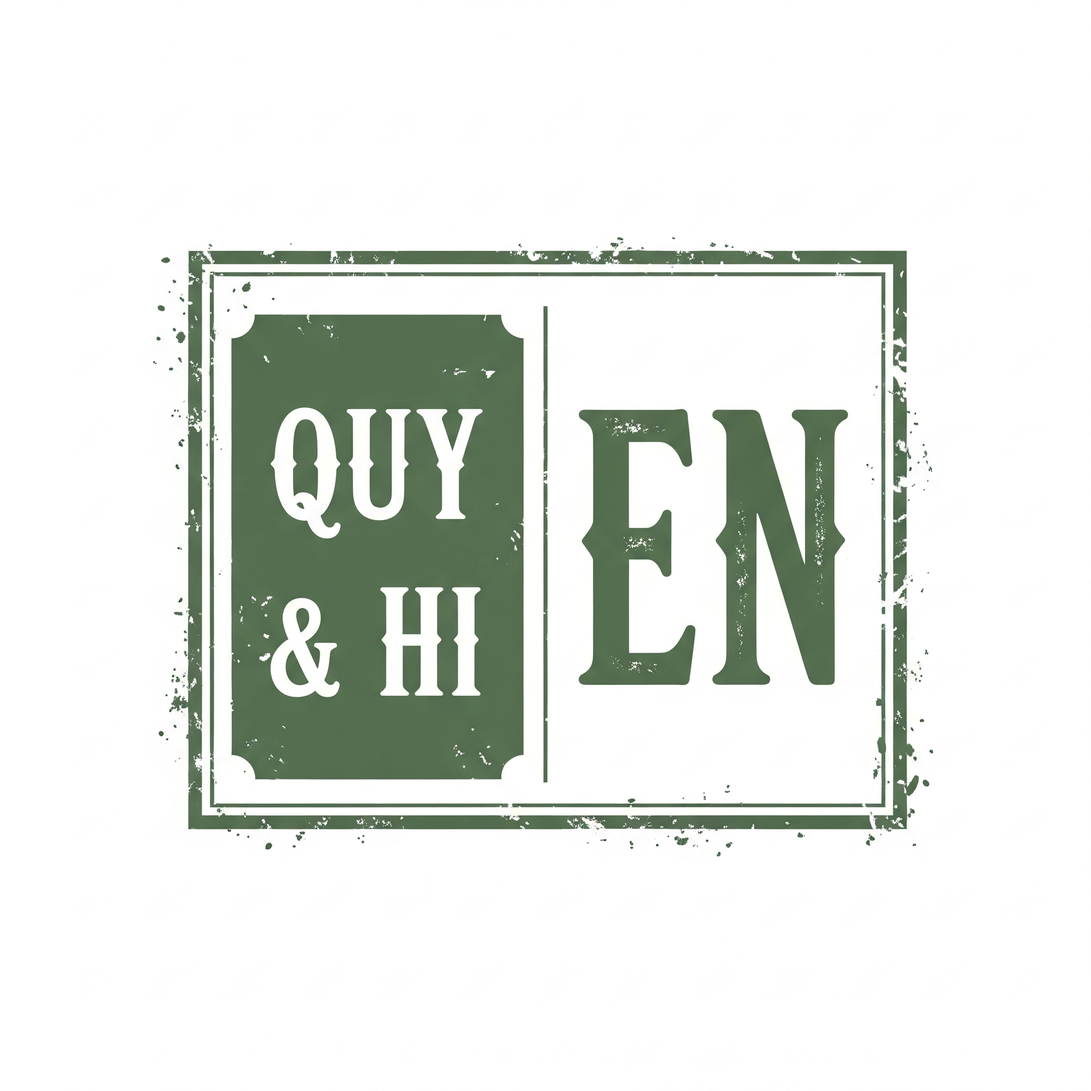
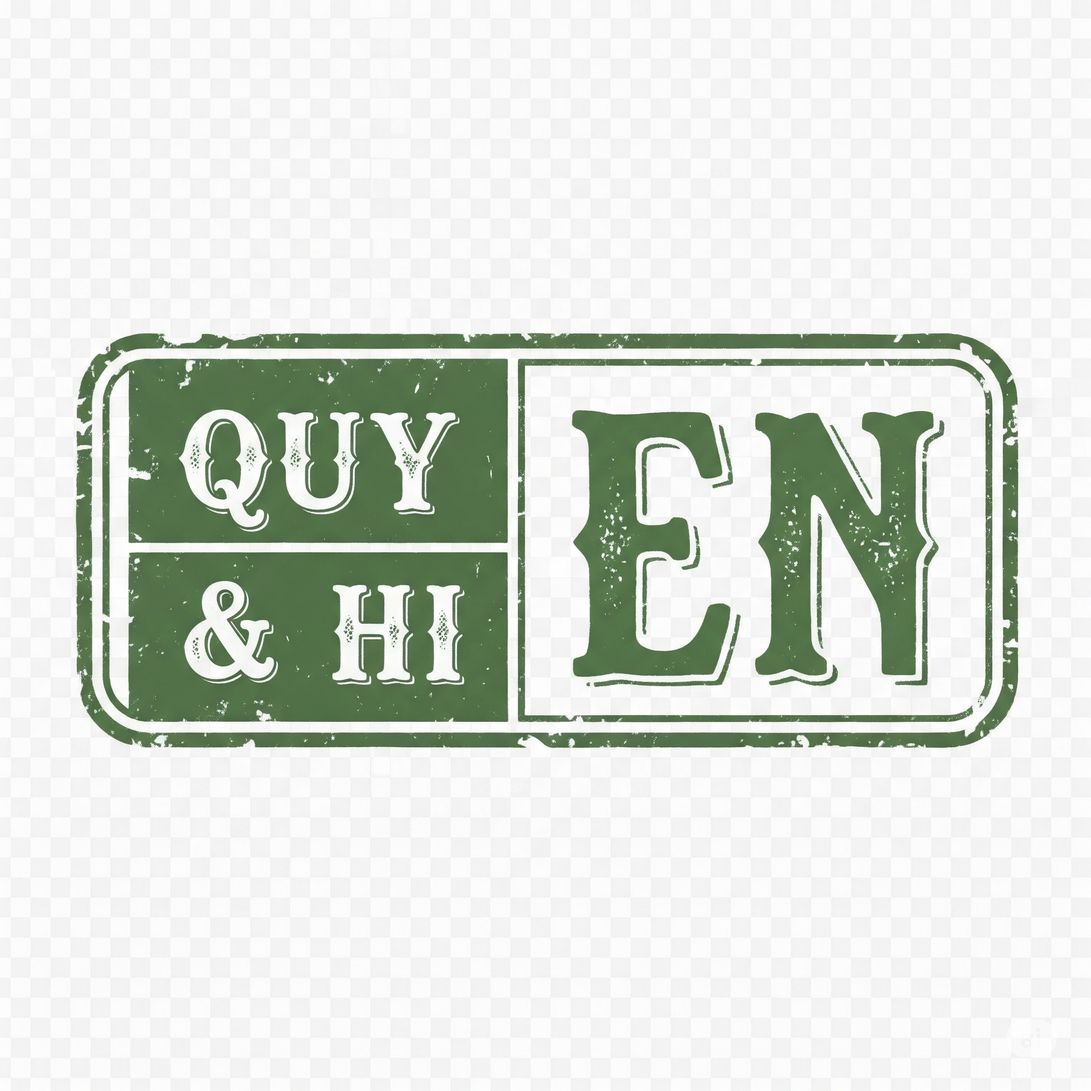
Update schedule section design and assets
Refactored the Wedding Day Schedule section layout and styles for a modernized look. Replaced the stamp logo in the schedule section with a new asset and added several new stamp images. Updated CSS to simplify the schedule layout, improve responsiveness, and enhance visual appearance.

Changed region(s): [[0.0625, 0.2188, 0.9375, 0.7812]]

diff --git a/src/css/sections.css b/src/css/sections.css
@@ -663,79 +663,61 @@
 
 /* --- NEW: Wedding Day Schedule Section --- */
 .schedule-section {
-    background: var(--color-secondary-cream);
+    background: var(--color-background);
     padding: 4rem 2rem;
+    position: relative;
+}
+
+.schedule-section .section-stamp-logo {
+    transform: rotate(0deg);
+    margin-bottom: 1rem;
+    opacity: 0.7;
 }
 
 .schedule-container {
-    position: relative;
-    max-width: 700px;
-    margin: 2rem auto;
-    padding: 2rem 0;
-}
-
-.schedule-container::after {
-    content: '';
-    position: absolute;
-    width: 3px;
-    background-color: var(--color-primary-matcha);
-    top: 0;
-    bottom: 0;
-    left: 50%;
-    margin-left: -1.5px;
-    z-index: 1;
+    max-width: 800px;
+    margin: 2rem auto 0;
+    display: flex;
+    flex-direction: column;
+    gap: 1.5rem;
 }
 
 .schedule-item {
-    padding: 1rem 3rem;
-    position: relative;
-    background-color: inherit;
-    width: 50%;
+    display: flex;
+    align-items: center;
+    gap: 1.5rem;
+    background-color: white;
+    padding: 1.5rem;
+    border-radius: 12px;
+    border: 1px solid var(--color-newspaper-border);
+    box-shadow: 0 4px 15px rgba(0,0,0,0.05);
+    transition: transform 0.3s ease, box-shadow 0.3s ease;
 }
 
-.schedule-item:nth-child(odd) {
-    left: 0;
-    padding-right: 4rem;
-    text-align: right;
-}
-
-.schedule-item:nth-child(even) {
-    left: 50%;
-    padding-left: 4rem;
-    text-align: left;
+.schedule-item:hover {
+    transform: translateY(-5px);
+    box-shadow: 0 8px 25px rgba(0,0,0,0.08);
 }
 
 .schedule-icon {
-    position: absolute;
+    flex-shrink: 0;
     width: 50px;
     height: 50px;
-    right: -25px;
-    background-color: white;
-    border: 3px solid var(--color-primary-matcha);
-    top: 50%;
-    transform: translateY(-50%);
+    background-color: var(--color-secondary-cream);
     border-radius: 50%;
-    z-index: 2;
     display: flex;
     justify-content: center;
     align-items: center;
 }
+
 .schedule-icon svg {
     width: 24px;
     height: 24px;
     stroke: var(--color-accent-deep-gold);
 }
 
-.schedule-item:nth-child(even) .schedule-icon {
-    left: -25px;
-}
-
 .schedule-content {
-    padding: 1.5rem;
-    background-color: white;
-    position: relative;
-    border-radius: 8px;
-    box-shadow: 0 5px 15px rgba(0,0,0,0.07);
+    flex-grow: 1;
 }
 
 .schedule-content h3 {
@@ -758,30 +740,6 @@
     color: #777;
     margin-top: 0.75rem;
     margin-bottom: 0;
-}
-
-@media screen and (max-width: 768px) {
-    .schedule-container::after {
-        left: 31px;
-    }
-    .schedule-item {
-        width: 100%;
-        padding-left: 70px;
-        padding-right: 25px;
-    }
-    .schedule-item:nth-child(odd),
-    .schedule-item:nth-child(even) {
-        left: 0;
-        text-align: left;
-        padding-left: 70px;
-        padding-right: 25px;
-    }
-    .schedule-icon {
-        left: 6px;
-    }
-    .schedule-item:nth-child(even) .schedule-icon {
-        left: 6px;
-    }
 }
 
 

diff --git a/src/HomePage.jsx b/src/HomePage.jsx
@@ -10,6 +10,7 @@ import heroBgImage from './assets/bg-2.jpeg';
 import journeyImage from './assets/bg-2.jpeg';
 import hqStamp1 from './assets/HQ-stamp-1-nobg.png'; // Rectangular Stamp
 import hqStamp2 from './assets/HQ-stamp-2-nobg.png'; // Circular Stamp
+import hqStamp3 from './assets/HQ-stamp-3-nobg.png'; // New stamp for schedule
 import hqArt from './assets/HQ-art.png'; // Footer Art
 
 // --- CONSTANTS ---
@@ -259,7 +260,7 @@ const LoveFacts = () => (
 const WeddingDaySchedule = () => (
     <section id="schedule" className="page-section schedule-section">
         <div className="section-header">
-            <img src={hqStamp1} alt="Quyen & Hien Stamp" className="section-stamp-logo" />
+            <img src={hqStamp3} alt="Quyen & Hien Stamp" className="section-stamp-logo" />
             <h2>Our Wedding Day</h2>
         </div>
         <div className="schedule-container">
